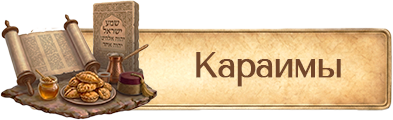
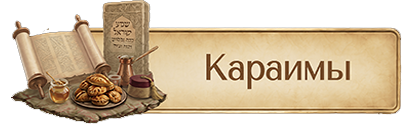
Современная этника->Адаптирование фото внутри текстов

diff --git a/src/assets/7-modern ethnicity/data/1 Русские.html b/src/assets/7-modern ethnicity/data/1 Русские.html
@@ -1,7 +1,10 @@
-РОО «Севастопольское общество русской культуры» создано в сентябре 1992 года. ОРК – коллективный член Региональной информационно-библиотечной системы Севастополя. В целях сохранения и продвижения русской культуры, языка и традиций проводит мероприятия на библиотечных площадках города. Участвует в форумах и конференциях по сохранению и развитию русского языка. Поддерживает тесные контакты с учреждениями культуры, общественными фондами, творческими союзами. Общество оказывает деятельную помощь воинам СВО, отправляя на фронт необходимые вещи и продукты, участвует в благотворительных ярмарок и мероприятиях по сбору гуманитарной помощи фронту и жителям прифронтовых территорий. Анжелика Фесенко, председатель Севастопольского общества русской культуры
-<br /><br />
-<img src="img/русские.jpg" />
+<br />РОО «Севастопольское общество русской культуры» создано в сентябре 1992 года. ОРК – коллективный член Региональной информационно-библиотечной системы Севастополя. В целях сохранения и продвижения русской культуры, языка и традиций проводит мероприятия на библиотечных площадках города. Участвует в форумах и конференциях по сохранению и развитию русского языка. Поддерживает тесные контакты с учреждениями культуры, общественными фондами, творческими союзами. Общество оказывает деятельную помощь воинам СВО, отправляя на фронт необходимые вещи и продукты, участвует в благотворительных ярмарок и мероприятиях по сбору гуманитарной помощи фронту и жителям прифронтовых территорий. Анжелика Фесенко, председатель Севастопольского общества русской культуры
 <br />
+<div style="clear: both; display: flex; justify-content: center; gap: 10px; margin: 20px 0;">
+    <img src="img/русские.jpg" style="max-width: 45%; height: auto;" />
+    <img src="img/русские 2.jpg" style="max-width: 45%; height: auto;" />
+    <img src="img/русские 3.jpg" style="max-width: 32%; height: auto;" />
+</div>
 Традиционная праздничная программа «Душа поёт! Гармонь играет!», посвящённая Дню славянской письменности и культуры во Дворце культуры рыбаков. 
 <br />В СевГУ прошла 6-я Межрегиональная научно-практическая конференция «Русский язык и культура как основа межнационального диалога», открывшая Форум русского языка и культуры.
 <br />Ведущие методисты Севастопольского городского национально-культурного Центра Ирина Белая и Ольга Карманова знакомили второклассников школы № 28 с русскими народными символами - самоваром и кокошником. Встреча состоялась в библиотеке-филиале № 13 в рамках проекта «Народные символы России в быту и в искусстве». Член Общества русской культуры Ольга Карманова исполняла частушки, песню о России и стихи о русской красавице и красоте русского костюма. Дети с увлечением разгадывали загадки и рассказывали о традициях чаепития в своих семьях.

diff --git a/src/assets/7-modern ethnicity/data/6 Караимы.html b/src/assets/7-modern ethnicity/data/6 Караимы.html
@@ -1,7 +1,11 @@
 Национально-культурное общество караимов Севастополя «Фидан» совместно с Департаментом общественных коммуникаций Правительства Севастополя проводят научно-практическую конференцию «Вопросы сохранение культурного наследия караимов». В ней принимают участие историки, архивисты и представители караимских организаций разных регионов страны.
 <br /><br />
 Знакомству с одним из самых малочисленных народов мира – караимами была посвящена встреча со школьниками в детской библиотеке-филиале № 16 на Корабельной стороне. Председатель Караимского общества Севастополя «Фидан» Евгений Баккал рассказал детям о том, кто такие караимы, каковы их традиции, культура, язык. Особый интерес у детей вызвал караимский словарь и песня на караимском языке. Завершилась встреча примеркой элементов национального костюма, всегда вызывающей у ребят неподдельный восторг.
-<br /><br />
+<div style="clear: both; display: flex; justify-content: center; gap: 10px; margin: 20px 0;">
+    <img src="img/караимы 1.jpg" style="max-width: 45%; height: auto;" />
+    <img src="img/караимы 2.jpg" style="max-width: 45%; height: auto;" />
+    <img src="img/караимы 3.jpg" style="max-width: 32%; height: auto;" />
+</div>
 Члены Караимского общества «Фидан» во главе с председателем Евгением Баккалом посетили семинар в Феодосии, приуроченный к празднику феодосийских караимов «Ага Думпа». История праздника насчитывает более пяти веков и связана с древней легендой о спасении караимской общины Кафы по времени османского владычества. Праздник «Ага Думпа» включён в «Антологию народной культуры» Российской Федерации и Республики Крым.
 <br /><br />
 Наша организация "Кардашлар" приняла участие в торжественной церемонии, которая состоялась в селе Мазанка, и получила Свидетельство о внесении в Реестр нематериального этнокультурного достояния Республики Крым нашего уникального обряда: "Традиции подписания брачного договора 'Шетар" у караимов Крыма". "Шетар" получил в Реестре номер 004, став четвёртым элементом, наряду с первым внесённым объектом — праздником караимов Феодосии "Ага-думпа"!

diff --git a/src/assets/7-modern ethnicity/data/2 Белорусы.html b/src/assets/7-modern ethnicity/data/2 Белорусы.html
@@ -1,3 +1,8 @@
 Общество «Беларусь» было основано в канун славянского праздника Ивана Купалы 26 лет назад. Начиналось все с шести человек, а уже через год вдесятеро выросшую белорусскую общину знали в городе, в немалой степени – благодаря первому вокальному коллективу «Белая Русь». Первым предателем общества «Беларусь» стала Алла Ивановна Гореликова, удостоенная Правительством Республики Беларусь медали Францикая Скорины. 
-<br/><br/>Традиционная праздничная программа «Душа поёт! Гармонь играет!», посвящённая Дню славянской письменности и культуры во Дворце культуры рыбаков. Особый колорит привнёс в праздничную программу ансамбль «Натхненне» Белорусского национально-культурного общества Севастополя с песнями на родном языке.
-<br/><br/>В Культурном центре «Бухта Казачья» отметили День единения народов Беларуси и России. 
+<div style="clear: both; display: flex; justify-content: center; gap: 10px; margin: 20px 0;">
+    <img src="img/белорусы.jpg" style="max-width: 45%; height: auto;" />
+    <img src="img/белорусы 2.jpg" style="max-width: 45%; height: auto;" />
+    <img src="img/белорусы 3.jpg" style="max-width: 32%; height: auto;" />
+</div>
+<br/>Традиционная праздничная программа «Душа поёт! Гармонь играет!», посвящённая Дню славянской письменности и культуры во Дворце культуры рыбаков. Особый колорит привнёс в праздничную программу ансамбль «Натхненне» Белорусского национально-культурного общества Севастополя с песнями на родном языке.
+<br/>В Культурном центре «Бухта Казачья» отметили День единения народов Беларуси и России. 

diff --git a/src/assets/7-modern ethnicity/data/5 Армяне.html b/src/assets/7-modern ethnicity/data/5 Армяне.html
@@ -1,1 +1,8 @@
-На территории монастыря Сурб-Хач ежегодно проходит празднование любимого летнего праздника армян – Вардавара. Изначально, он приходился на день летнего солнцестояния, но позднее, с принятием христианства, его стали отмечать в день Преображения Господня. Вардавар традиционно сопровождается ритуальным обливанием водой друг друга и обилием венков и букетов из алых или оранжевых цветов.
+На территории монастыря Сурб-Хач ежегодно проходит празднование любимого летнего праздника армян – Вардавара. Изначально, он приходился на день летнего солнцестояния, но позднее, с принятием христианства, его стали отмечать в день Преображения Господня. 
+<div style="clear: both; display: flex; justify-content: center; gap: 10px; margin: 20px 0;">
+    <img src="img/армяне 1.jpg" style="max-width: 45%; height: auto;" />
+    <img src="img/армяне 2.jpg" style="max-width: 45%; height: auto;" />
+    <img src="img/армяне 3.jpg" style="max-width: 32%; height: auto;" />
+</div>
+Вардавар традиционно сопровождается ритуальным обливанием водой друг друга и обилием венков и букетов из алых или оранжевых цветов.
+Организация занимается сохранением и развитием армянской культуры в Севастополе. В её рамках работают: воскресная школа, где можно изучать армянский язык, историю Армении и основы веры; творческие кружки, в том числе по изучению армянских танцев; Памятные акции, в том числе у мемориалов, посвящённых воинам 89-й Таманской армянской стрелковой дивизии.

diff --git a/src/assets/7-modern ethnicity/data/4 Греки.html b/src/assets/7-modern ethnicity/data/4 Греки.html
@@ -1,3 +1,8 @@
 В Херсонесе Таврическом Круглый стол «Перспективы сотрудничества Греции и Севастополя», на котором обсуждаются вопросы развития взаимоотношений в сфере науки, культуры и образования. Севастопольское греческое культурно-просветительское общество «Херсонес». 
 <br />
+<div style="clear: both; display: flex; justify-content: center; gap: 10px; margin: 20px 0;">
+    <img src="img/греки 1.jpg" style="max-width: 45%; height: auto;" />
+    <img src="img/греки 2.jpg" style="max-width: 45%; height: auto;" />
+    <img src="img/греки 3.jpg" style="max-width: 32%; height: auto;" />
+</div>
 Ежегодно 28 октября греческий народ отмечает День Охи. Дата установлена в память об отклонении от ультиматума, предъявленного греческому правительству фашистской Италией в году Второй мировой войны.  В результате этой единодушной позиции правительства и народа Греция начала вооруженное сопротивление, чем отсрочила экспансию фашистской коалиции на территории СССР. Мероприятие традиционно проходит в рамках Дней греческой культуры, посвященного героическому наследию греческого антифашистского сопротивления. 

diff --git a/src/assets/7-modern ethnicity/data/3 Крымские Татары.html b/src/assets/7-modern ethnicity/data/3 Крымские Татары.html
@@ -1,3 +1,8 @@
-Объединение крымских татар Севастопольского региона «Ак-Яр». Председатель – Энвер Мамутдинов. 
-<br/><br/>
-Проект Фонда возрождения крымскотатарской культуры имени профессора С. О. Изидинова «Исторический атлас культуры Крыма», реализован на субсидию Правительства Севастополя для социально ориентированных общественных организаций.
+Объединение крымских татар Севастопольского региона «Ак-Яр». Председатель – Энвер Мамутдинов. Проект Фонда возрождения крымскотатарской культуры имени профессора С. О. Изидинова «Исторический атлас культуры Крыма», реализован на субсидию Правительства Севастополя для социально ориентированных общественных организаций.
+<br/>
+<div style="clear: both; display: flex; justify-content: center; gap: 10px; margin: 20px 0;">
+    <img src="img/кр татары.jpg" style="max-width: 45%; height: auto;" />
+    <img src="img/кр татары 2.jpeg" style="max-width: 45%; height: auto;" />
+    <img src="img/кр татары 3.jpg" style="max-width: 32%; height: auto;" />
+</div>
+
